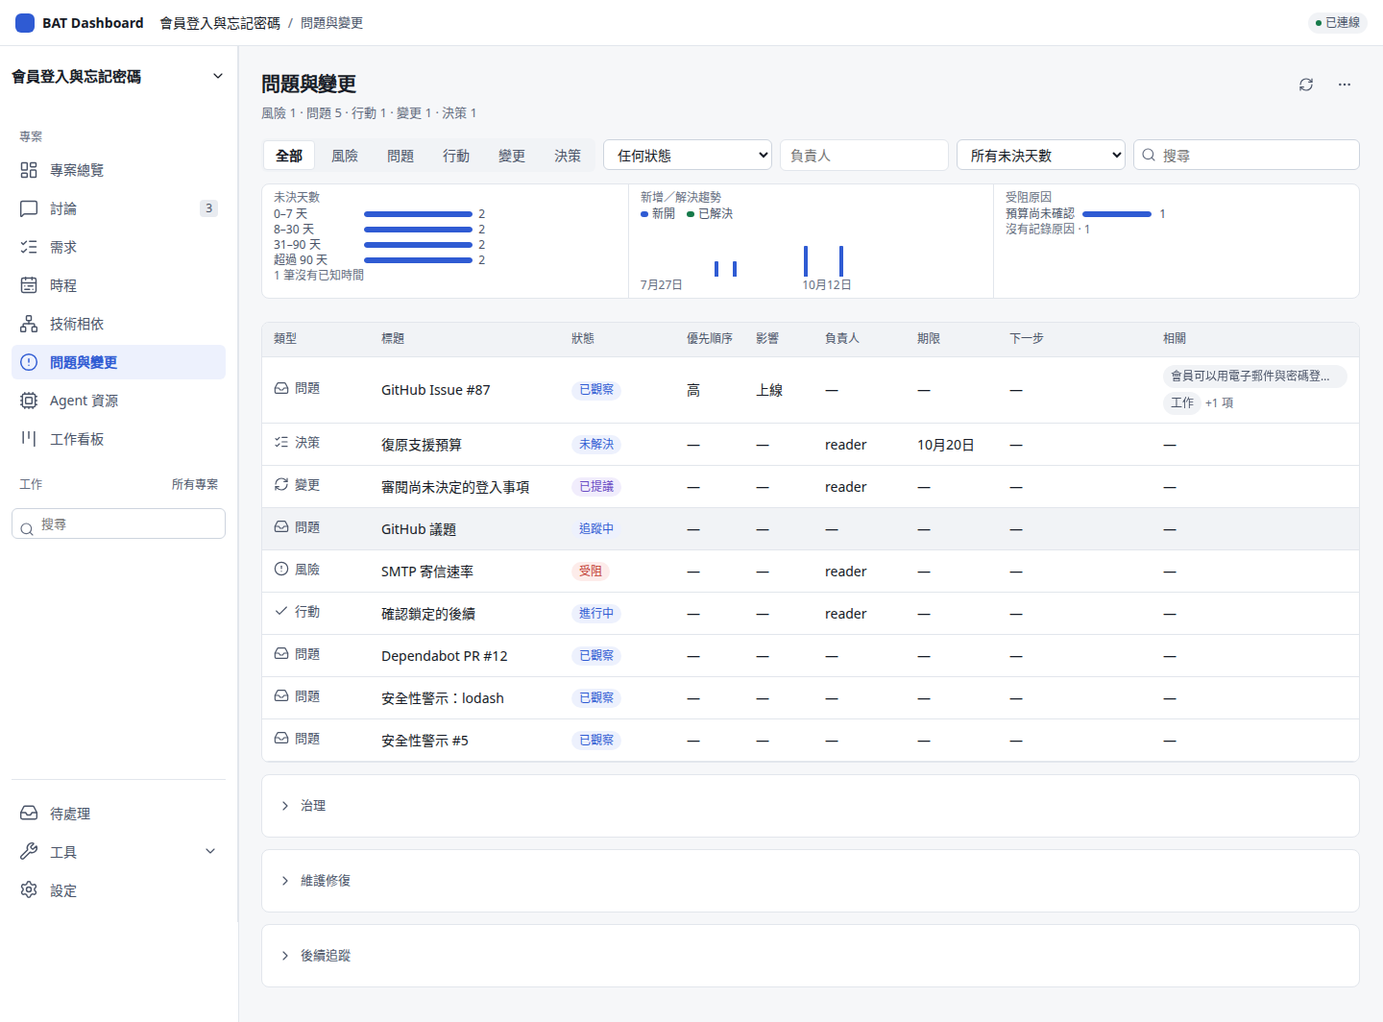
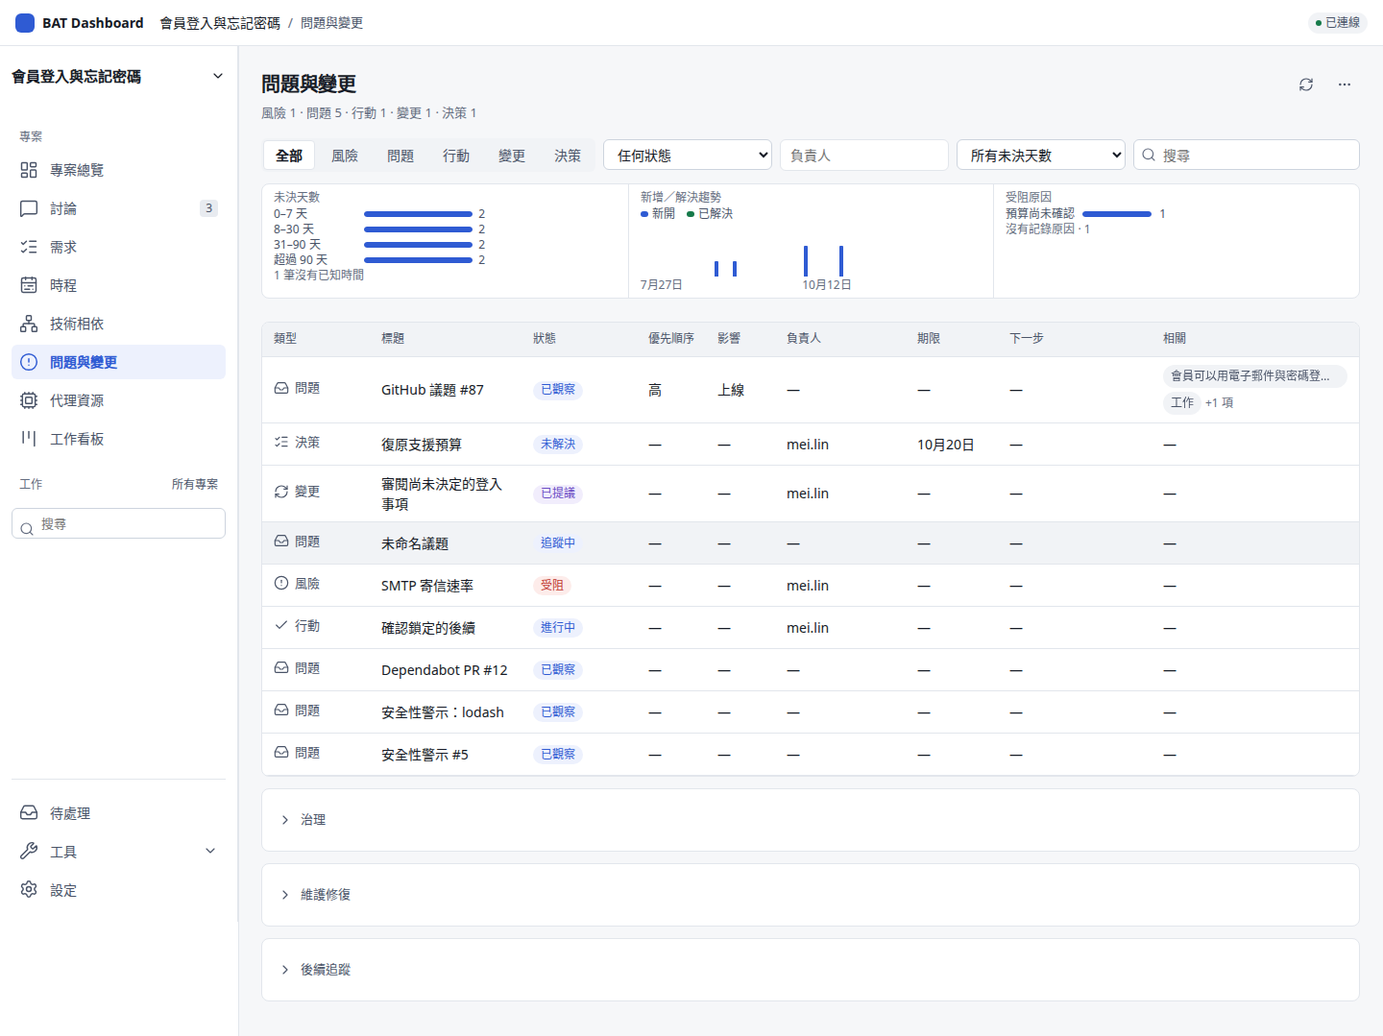
docs: recapture gallery and refresh product site for merged main d66f032d
Advance public gallery pin to d66f032d342562322479c5087c6982d662d11a01 (through #181 on 2026-10-15).
Recapture all 16 unedited public PNGs with Playwright Chromium, regenerate manifest.json with verified source hashes and dimensions, and update site copy, READMEs and image provenance documentation.

diff --git a/site/index.html b/site/index.html
@@ -55,8 +55,8 @@
 <a class="lang-zh image-link" href="images/requirements-zh.png" aria-label="展開電子郵件登入需求與工作詳情，分開查看驗收、已合併 PR 及部分交付證據。"><img src="images/requirements-zh.png" width="1440" height="1600" loading="lazy" alt="展開電子郵件登入需求與工作詳情，分開查看驗收、已合併 PR 及部分交付證據。"></a>
 <figcaption><span><span class="lang-en">Expand the email sign-in row and read its work inspector. Acceptance, merged PRs and partial delivery each retain their evidence.</span><span class="lang-zh" lang="zh-Hant">展開電子郵件登入需求與工作詳情，分開查看驗收、已合併 PR 及部分交付證據。</span></span><span class="caption-meta"><span class="lang-en">Actual UI · synthetic demo data · open image for full size</span><span class="lang-zh" lang="zh-Hant">實際介面 · 合成展示資料 · 點圖看原尺寸</span></span></figcaption></figure>
 <figure class="product-shot" id="view-issues">
-<a class="lang-en image-link" href="images/issues-en.png" aria-label="Read named maintenance findings alongside risks, issues, actions, changes and decisions; open records remain open."><img src="images/issues-en.png" width="1440" height="1094" loading="lazy" alt="Read named maintenance findings alongside risks, issues, actions, changes and decisions; open records remain open."></a>
-<a class="lang-zh image-link" href="images/issues-zh.png" aria-label="在登記表追蹤具名維護發現、風險、問題、行動、變更與決策；未結案項目保持原狀態。"><img src="images/issues-zh.png" width="1440" height="1064" loading="lazy" alt="在登記表追蹤具名維護發現、風險、問題、行動、變更與決策；未結案項目保持原狀態。"></a>
+<a class="lang-en image-link" href="images/issues-en.png" aria-label="Read named maintenance findings alongside risks, issues, actions, changes and decisions; open records remain open."><img src="images/issues-en.png" width="1440" height="1124" loading="lazy" alt="Read named maintenance findings alongside risks, issues, actions, changes and decisions; open records remain open."></a>
+<a class="lang-zh image-link" href="images/issues-zh.png" aria-label="在登記表追蹤具名維護發現、風險、問題、行動、變更與決策；未結案項目保持原狀態。"><img src="images/issues-zh.png" width="1440" height="1079" loading="lazy" alt="在登記表追蹤具名維護發現、風險、問題、行動、變更與決策；未結案項目保持原狀態。"></a>
 <figcaption><span><span class="lang-en">Read named maintenance findings alongside risks, issues, actions, changes and decisions; open records remain open.</span><span class="lang-zh" lang="zh-Hant">在登記表追蹤具名維護發現、風險、問題、行動、變更與決策；未結案項目保持原狀態。</span></span><span class="caption-meta"><span class="lang-en">Actual UI · synthetic demo data · open image for full size</span><span class="lang-zh" lang="zh-Hant">實際介面 · 合成展示資料 · 點圖看原尺寸</span></span></figcaption></figure>
 <figure class="product-shot" id="view-schedule">
 <a class="lang-en image-link" href="images/schedule-en.png" aria-label="Compare recorded baseline, forecast and actual dates on a labelled axis; undated attempts stay unscheduled."><img src="images/schedule-en.png" width="1440" height="960" loading="lazy" alt="Compare recorded baseline, forecast and actual dates on a labelled axis; undated attempts stay unscheduled."></a>
@@ -74,7 +74,7 @@
 <a class="lang-en image-link" href="images/session-en.png" aria-label="Read the manual BAT session on demo-host; Connector cannot send or interrupt it."><img src="images/session-en.png" width="1440" height="960" loading="lazy" alt="Read the manual BAT session on demo-host; Connector cannot send or interrupt it."></a>
 <a class="lang-zh image-link" href="images/session-zh.png" aria-label="閱讀 demo-host 上的人工 BAT 工作階段；Connector 對它保持唯讀。"><img src="images/session-zh.png" width="1440" height="960" loading="lazy" alt="閱讀 demo-host 上的人工 BAT 工作階段；Connector 對它保持唯讀。"></a>
 <figcaption><span><span class="lang-en">Read the manual BAT session on demo-host; Connector cannot send or interrupt it.</span><span class="lang-zh" lang="zh-Hant">閱讀 demo-host 上的人工 BAT 工作階段；Connector 對它保持唯讀。</span></span><span class="caption-meta"><span class="lang-en">Actual UI · synthetic demo data · open image for full size</span><span class="lang-zh" lang="zh-Hant">實際介面 · 合成展示資料 · 點圖看原尺寸</span></span></figcaption></figure>
-<div class="release-note"><strong><span class="lang-en">Development preview</span><span class="lang-zh" lang="zh-Hant">開發預覽</span></strong><span><span class="lang-en">Screenshots pin merged main at ab960ed23f734944470b982bd2f66b0c30300151, through #161 on October 14, 2026. They show the merged discussion, register, Board and evidence-view updates. This refresh provides no installation or live acceptance evidence. Match the package to its source before installing.</span><span class="lang-zh" lang="zh-Hant">截圖固定於已合併主線的 ab960ed23f734944470b982bd2f66b0c30300151，包含 2026 年 10 月 14 日的 #161。展示已合併的討論、登記表、工作看板及證據檢視更新。本次沒有安裝或實機驗收證據；安裝前請核對套件來源。</span></span><a href="#status"><span><span class="lang-en">Current scope</span><span class="lang-zh" lang="zh-Hant">目前範圍</span></span></a></div><a href="https://github.com/TED-H-com/bat-agent-connector/blob/main/site/images/README.md" class="text-link"><span><span class="lang-en">Screenshot sources and reproduction →</span><span class="lang-zh" lang="zh-Hant">截圖來源與重拍方式 →</span></span></a><div class="principles">
+<div class="release-note"><strong><span class="lang-en">Development preview</span><span class="lang-zh" lang="zh-Hant">開發預覽</span></strong><span><span class="lang-en">Screenshots pin merged main at d66f032d342562322479c5087c6982d662d11a01, through #181 on October 15, 2026. They show quiet session status, on-demand PM views, read-only work paths, single-line owner columns and updated localization. This refresh provides no installation or live acceptance evidence. Match the package to its source before installing.</span><span class="lang-zh" lang="zh-Hant">截圖固定於已合併主線的 d66f032d342562322479c5087c6982d662d11a01，包含 2026 年 10 月 15 日的 #181。展示靜態工作階段狀態、隨選載入 PM 視圖、唯讀工作路徑、單行負責人欄位與繁體中文在地化更新。本次沒有安裝或實機驗收證據；安裝前請核對套件來源。</span></span><a href="#status"><span><span class="lang-en">Current scope</span><span class="lang-zh" lang="zh-Hant">目前範圍</span></span></a></div><a href="https://github.com/TED-H-com/bat-agent-connector/blob/main/site/images/README.md" class="text-link"><span><span class="lang-en">Screenshot sources and reproduction →</span><span class="lang-zh" lang="zh-Hant">截圖來源與重拍方式 →</span></span></a><div class="principles">
 <div><h3><span class="lang-en">Activity has a source</span><span class="lang-zh" lang="zh-Hant">活動要有來源</span></h3><p><span class="lang-en">A session going quiet does not establish completion.</span><span class="lang-zh" lang="zh-Hant">session 安靜下來，不能直接判斷已完成。</span></p></div>
 <div><h3><span class="lang-en">Acceptance has a reason</span><span class="lang-zh" lang="zh-Hant">驗收要有理由</span></h3><p><span class="lang-en">Record the criterion, result, evidence and responsible reviewer.</span><span class="lang-zh" lang="zh-Hant">保留條件、結果、證據與負責審閱者。</span></p></div>
 <div><h3><span class="lang-en">Recovery keeps the original</span><span class="lang-zh" lang="zh-Hant">恢復沿用原紀錄</span></h3><p><span class="lang-en">Read back an uncertain operation before starting another.</span><span class="lang-zh" lang="zh-Hant">結果未知時先查回原操作，再決定下一步。</span></p></div>
@@ -134,7 +134,7 @@
 </div><a href="https://github.com/TED-H-com/bat-agent-connector/blob/main/SECURITY.md" class="text-link"><span><span class="lang-en">Security model →</span><span class="lang-zh" lang="zh-Hant">安全模型 →</span></span></a></section>
 <section class="section" id="status"><div class="section-heading"><p class="eyebrow"><span class="lang-en">Current scope</span><span class="lang-zh" lang="zh-Hant">目前範圍</span></p><h2><span class="lang-en">A working foundation. A lifecycle still in integration.</span><span class="lang-zh" lang="zh-Hant">底座已能使用，完整流程仍在整合。</span></h2><p class="lede"><span class="lang-en">Read merged code, candidate checks and real-environment acceptance as separate records.</span><span class="lang-zh" lang="zh-Hant">分開看已合併程式、候選驗證與實際環境驗收。</span></p></div><dl class="readiness">
 <div><dt><span class="lang-en">Merged main</span><span class="lang-zh" lang="zh-Hant">已合併主線</span></dt><dd><span class="lang-en">Desktop and central foundation; PM plans, quality/dependency evidence, bounded dispatch, policy-bounded repairs, BAT proposals/Follow-up and AHP read-only observation. #132 adds central Overview, discussion context and renames, register, Schedule, Dependencies and daily resource buckets; #134 adds adopted goals, recent decisions and the guided close of a resolved issue.</span><span class="lang-zh" lang="zh-Hant">桌面與中央底座、PM 計畫、品質／依賴證據、有界派工、政策內修復、BAT 提案／Follow-up 及 AHP 唯讀觀察。#132 補上中央總覽、討論來源與改名、登記表、時程、技術相依及每日資源桶；#134 補上採用後目標、近期決策及問題解決回報引導。</span></dd></div>
-<div><dt><span class="lang-en">Merged workspace</span><span class="lang-zh" lang="zh-Hant">已合併工作台</span></dt><dd><span class="lang-en">Merged main at ab960ed2 includes the October 14 discussion, register/Board, governance/meeting/follow-up, maintenance, work-tool, Overview/report/Requirements and first-run updates. Worktree/execution details, stable requirement rows and release-preview focus are merged. Installation and live acceptance remain separate.</span><span class="lang-zh" lang="zh-Hant">已合併主線 ab960ed2 包含 10 月 14 日的討論、登記表／看板、治理／會議／追蹤、維護、工程工具、總覽／報告／需求與首次設定更新。獨立工作目錄／執行詳情、穩定需求列及發布預覽焦點修正已合併；安裝與實機驗收另列。</span></dd></div>
+<div><dt><span class="lang-en">Merged workspace</span><span class="lang-zh" lang="zh-Hant">已合併工作台</span></dt><dd><span class="lang-en">Merged main at d66f032d includes quiet session status (#152), shell focus (#155), single-message PM failure presentation (#162, #175), M4 lifecycle evidence (#116), Settings diagnostics export (#171), read-only session work paths (#169), on-demand PM views (#174), TED-H-com links (#177), Git transport contract (#167), and UI polish (#172, #179, #180). Installation and live acceptance remain separate.</span><span class="lang-zh" lang="zh-Hant">已合併主線 d66f032d 包含靜態工作階段狀態（#152）、工作空間聚焦（#155）、單一 PM 錯誤訊息（#162、#175）、M4 生命週期證據（#116）、設定診斷匯出（#171）、唯讀工作階段路徑（#169）、隨選載入 PM 視圖（#174）、TED-H-com 連結（#177）、Git 傳輸合約（#167）與介面修整（#172、#179、#180）。安裝與實機驗收另列。</span></dd></div>
 <div><dt><span class="lang-en">Still ahead</span><span class="lang-zh" lang="zh-Hant">仍待完成</span></dt><dd><span class="lang-en">General native coding, AHP create-own/write, remaining document views/slides, broader CLI support, remote usage collection and delivery-efficiency attribution. The full adopted PM v1.2 plan remains the scope.</span><span class="lang-zh" lang="zh-Hant">一般原生 coding、AHP 自建／寫入、其餘文件視圖／簡報、更多 CLI、遠端用量收集及交付效率歸因；範圍仍依完整 PM v1.2 計畫。</span></dd></div>
 <div><dt><span class="lang-en">Evidence limits</span><span class="lang-zh" lang="zh-Hant">驗證界線</span></dt><dd><span class="lang-en">Package checks validate their exact source and fixtures. Screenshots use demonstration data. Owner installation and live acceptance are not claimed as passed.</span><span class="lang-zh" lang="zh-Hant">套件檢查驗證精確來源與 fixture；截圖使用展示資料。未宣稱使用者已安裝或已通過實際環境驗收。</span></dd></div>
 </dl><div class="evidence-links"><a href="https://github.com/TED-H-com/bat-agent-connector/blob/main/docs/product/progress-2026-10-14.md"><span><span class="lang-en">Progress and evidence ↗</span><span class="lang-zh" lang="zh-Hant">進度與證據 ↗</span></span></a><a href="https://github.com/TED-H-com/bat-agent-connector/blob/main/docs/product/pm-v1.2-plan.md"><span><span class="lang-en">Adopted plan ↗</span><span class="lang-zh" lang="zh-Hant">已採用計畫 ↗</span></span></a><a href="https://github.com/TED-H-com/bat-agent-connector/actions?query=branch%3Amain"><span><span class="lang-en">Current main checks ↗</span><span class="lang-zh" lang="zh-Hant">目前 main 檢查 ↗</span></span></a></div></section>

diff --git a/scripts/build_product_site.py b/scripts/build_product_site.py
@@ -73,8 +73,8 @@ release_note = (
     '<div class="release-note">'
     + bi("Development preview", "開發預覽", "strong")
     + bi(
-        "Screenshots pin merged main at ab960ed23f734944470b982bd2f66b0c30300151, through #161 on October 14, 2026. They show the merged discussion, register, Board and evidence-view updates. This refresh provides no installation or live acceptance evidence. Match the package to its source before installing.",
-        "截圖固定於已合併主線的 ab960ed23f734944470b982bd2f66b0c30300151，包含 2026 年 10 月 14 日的 #161。展示已合併的討論、登記表、工作看板及證據檢視更新。本次沒有安裝或實機驗收證據；安裝前請核對套件來源。",
+        "Screenshots pin merged main at d66f032d342562322479c5087c6982d662d11a01, through #181 on October 15, 2026. They show quiet session status, on-demand PM views, read-only work paths, single-line owner columns and updated localization. This refresh provides no installation or live acceptance evidence. Match the package to its source before installing.",
+        "截圖固定於已合併主線的 d66f032d342562322479c5087c6982d662d11a01，包含 2026 年 10 月 15 日的 #181。展示靜態工作階段狀態、隨選載入 PM 視圖、唯讀工作路徑、單行負責人欄位與繁體中文在地化更新。本次沒有安裝或實機驗收證據；安裝前請核對套件來源。",
     )
     + link("#status", "Current scope", "目前範圍")
     + "</div>"
@@ -593,8 +593,8 @@ for label, lz, en, zh in [
     (
         "Merged workspace",
         "已合併工作台",
-        "Merged main at ab960ed2 includes the October 14 discussion, register/Board, governance/meeting/follow-up, maintenance, work-tool, Overview/report/Requirements and first-run updates. Worktree/execution details, stable requirement rows and release-preview focus are merged. Installation and live acceptance remain separate.",
-        "已合併主線 ab960ed2 包含 10 月 14 日的討論、登記表／看板、治理／會議／追蹤、維護、工程工具、總覽／報告／需求與首次設定更新。獨立工作目錄／執行詳情、穩定需求列及發布預覽焦點修正已合併；安裝與實機驗收另列。",
+        "Merged main at d66f032d includes quiet session status (#152), shell focus (#155), single-message PM failure presentation (#162, #175), M4 lifecycle evidence (#116), Settings diagnostics export (#171), read-only session work paths (#169), on-demand PM views (#174), TED-H-com links (#177), Git transport contract (#167), and UI polish (#172, #179, #180). Installation and live acceptance remain separate.",
+        "已合併主線 d66f032d 包含靜態工作階段狀態（#152）、工作空間聚焦（#155）、單一 PM 錯誤訊息（#162、#175）、M4 生命週期證據（#116）、設定診斷匯出（#171）、唯讀工作階段路徑（#169）、隨選載入 PM 視圖（#174）、TED-H-com 連結（#177）、Git 傳輸合約（#167）與介面修整（#172、#179、#180）。安裝與實機驗收另列。",
     ),
     (
         "Still ahead",

diff --git a/scripts/check_product_site.py b/scripts/check_product_site.py
@@ -173,8 +173,8 @@ def main() -> None:
         errors.append("Screenshot manifest must pin a full source commit.")
     if manifest.get("source_pin_kind") != "merged":
         errors.append("Public screenshots must use a merged source pin.")
-    if manifest.get("frontend_source_commit") != "ab960ed23f734944470b982bd2f66b0c30300151":
-        errors.append("Public screenshots must pin merged main at ab960ed2.")
+    if manifest.get("frontend_source_commit") != "d66f032d342562322479c5087c6982d662d11a01":
+        errors.append("Public screenshots must pin merged main at d66f032d.")
     for entry in manifest["images"]:
         path = SITE / "images" / entry["file"]
         if not path.is_file() or hashlib.sha256(path.read_bytes()).hexdigest() != entry["sha256"]:

diff --git a/site/images/README.md b/site/images/README.md
@@ -1,9 +1,9 @@
 # Product screenshots
 
 These sixteen unedited PNGs show the real shared browser frontend from merged main
-`ab960ed23f734944470b982bd2f66b0c30300151`, using the single membership demo project
+`d66f032d342562322479c5087c6982d662d11a01`, using the single membership demo project
 in [`desktop/tests/demo/index.ts`](../../desktop/tests/demo/index.ts).
-This pin includes the ten UI updates through #161 on 2026-10-14.
+This pin includes merged updates through #181 on 2026-10-15: quiet session status and explained history (#152), shell focus (#155), single-message failure presentation and meetings guidance (#162, #175), M4 lifecycle evidence (#116), Settings diagnostics export (#171), read-only session work paths and agent setup (#169), on-demand PM views (#174), TED-H-com repository links (#177), Git transport contract (#167), and UI polish across phone headers, single-line owner columns and zh-TW localization (#172, #179, #180).
 The development preview is shared-browser evidence; this refresh provides no installation or live acceptance evidence.
 The [progress report](../../docs/product/progress-2026-10-14.md) separates those states.
 
@@ -16,7 +16,7 @@ The [progress report](../../docs/product/progress-2026-10-14.md) separates those
 | `schedule-en.png`, `schedule-zh.png` | Recorded baseline, forecast and actual dates on a labelled axis, with Design review collapsed through its normal control. Phone tracks use one fitted date range. Recovery review is forecast three days late; undated session attempts remain unscheduled. |
 | `dependencies-en.png`, `dependencies-zh.png` | Pinned inventory graph with its Partial label and evidence legend. The graph is bounded; missing versions, ownership and freshness remain unknown. |
 | `board-en.png`, `board-zh.png` | Search, requirement and agent filters above twelve synthetic work items across five workflow lanes. Waiting and review states remain distinct from accepted content and delivery. |
-| `session-en.png`, `session-zh.png` | Manual BAT session on `demo-host`, with its read-only transcript. There are no send, answer or interrupt controls. |
+| `session-en.png`, `session-zh.png` | Manual BAT session on `demo-host`, with its read-only transcript and reviewed work paths. There are no send, answer or interrupt controls. |
 
 All product data is synthetic, including acceptance and delivery receipts.
 The capture script projects Recently decided from the demo's existing plan adoption
@@ -27,13 +27,8 @@ The explicit Resolve step is covered by the separate
 [real-central walkthrough](../../docs/design/pm-decision-walkthrough.md), with mock external transports.
 The discussion scene performs only three mock operations: create a bound thread,
 save a note and prepare a proposal. It stops before adoption; all other scenes are reads.
-No customer data, real host, provider or credential is used. `reader` is a synthetic
+No customer data, real host, provider or credential is used. `mei.lin` is a synthetic
 actor ID; repository, host and component identifiers retain their fixture names.
-
-One existing product localization defect remains visible in `issues-zh.png`:
-the finding name says “GitHub Issue #87”. It comes from the merged frontend,
-not the capture script. Do not rewrite the screenshot to hide it; fix the product
-in its own task, then advance the merged pin and recapture.
 
 Public images are 1440px wide, in light theme and UTC, with actual browser locales
 `en-US` and `zh-TW`. The viewport is 1440 × 960, or 1440 × 1600 for Requirements

diff --git a/site/README.md b/site/README.md
@@ -11,8 +11,8 @@ problem, discuss it with the PM and review a decision in the same context.
 It retains Windows Fleet, central authority, platform differences and installation guidance.
 
 The redesigned views and sixteen screenshots are a **development preview from merged main**
-pinned to `ab960ed23f734944470b982bd2f66b0c30300151`.
-This pin includes the ten UI updates through #161 on October 14, 2026.
+pinned to `d66f032d342562322479c5087c6982d662d11a01`.
+This pin includes merged updates through #181 on October 15, 2026: quiet session status and explained history (#152), shell focus (#155), single-message failure presentation and meetings guidance (#162, #175), M4 lifecycle evidence (#116), Settings diagnostics export (#171), read-only session work paths and agent setup (#169), on-demand PM views (#174), TED-H-com repository links (#177), Git transport contract (#167), and UI polish across phone headers, single-line owner columns and zh-TW localization (#172, #179, #180).
 It includes the first-run connection URL flow; repository binding and verification
 are optional collapsed steps. This refresh provides no installation or live evidence.
 CI and browser screenshots do not establish native or live acceptance.

diff --git a/README.md b/README.md
@@ -14,7 +14,7 @@ Review the proposed update and explicitly adopt it; requirements, work and deliv
 
 The **Web and Tauri desktop apps share one interface and one Python backend**. You keep using [Better Agent Terminal (BAT)](https://github.com/tony1223/better-agent-terminal) for your own coding. Windows Fleet manages local connections and startup. Connector keeps project history, permissions and operations consistent across the Dashboard, CLI and MCP.
 
-> **Development preview.** The screenshots come from merged `main` at `ab960ed2` (October 14, 2026, through #161).
+> **Development preview.** The screenshots come from merged `main` at `d66f032d` (October 15, 2026, through #181).
 > Nothing shown here is installed or live-tested.
 > The [progress report](docs/product/progress-2026-10-14.md) separates branch, merged, installed and live-tested status.
 > Match a successful package to its exact source; screenshots and CI do not establish native or live acceptance.

diff --git a/README.zh-TW.md b/README.zh-TW.md
@@ -14,7 +14,7 @@ Better Agent Dashboard 把專案狀況、PM 討論與決策放在同一個工作
 
 **Web 與 Tauri 桌面版共用介面及 Python 後端。** 你照常在 [Better Agent Terminal（BAT）](https://github.com/tony1223/better-agent-terminal) 開發；Windows Fleet 管理本機連線與啟動，Connector 則讓 Dashboard、CLI、MCP 使用同一份專案歷史、權限和操作紀錄。
 
-> **開發預覽。** 截圖來自已合併的 `main` `ab960ed2`（2026 年 10 月 14 日，包含 #161）。
+> **開發預覽。** 截圖來自已合併的 `main` `d66f032d`（2026 年 10 月 15 日，包含 #181）。
 > 這裡呈現的內容都尚未安裝或實機驗收。
 > [進度報告](docs/product/progress-2026-10-14.md)分開列出分支、合併、安裝與實機驗收狀態。
 > 下載時請核對套件的精確來源；截圖與 CI 不能代替原生或實機驗收。
